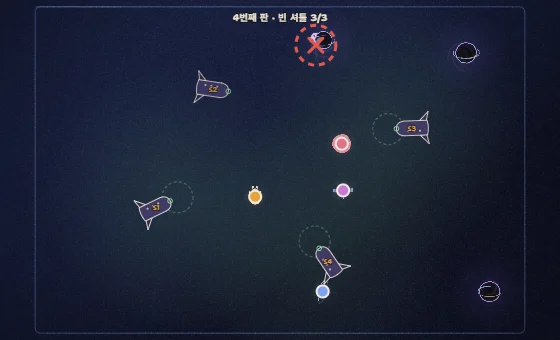
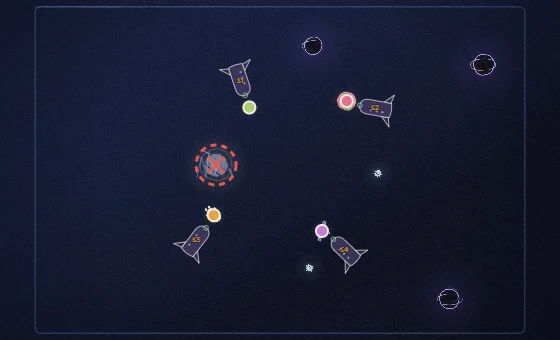
Docking Bay: pulsars and a comet
Two pulsars sit out of the starting circle and clear of the black holes;
every few seconds one pulses and shoves away whoever is floating near it,
off the approach to a port or toward a hole. Docked racers are held and
not shoved. A comet streaks across the room about three times a race,
barging through anyone in its way; it shares a negative collision group
with the walls so it can fly in from outside, while racers still bounce
off them. Each heat's shuttles are laid out clear of holes and pulsars.

Neither eliminates anyone directly, but more racers now end up in the
holes (about 45% of knockouts); 8 racers race in about 30-65 s, every
race still ending with one winner. Rules text and step pictures updated.

diff --git a/src/maps/dock.js b/src/maps/dock.js
@@ -23,7 +23,11 @@
 import { makeRng, hashSeed } from '../rng.js';
 import { staticRect, staticCircle, add, remove } from '../engine.js';
 import { drawEdge } from './common.js';
-import { createHole, updateHoles, holeCapturing, drawHoles } from './hazards.js';
+import {
+  createHole, updateHoles, holeCapturing, drawHoles,
+  createPulsar, updatePulsars, drawPulsars,
+  createComet, updateComets, drawComets,
+} from './hazards.js';
 import { BODY } from '../config.js';
 import { t } from '../i18n.js';
 
@@ -42,6 +46,7 @@ const VERDICT_MS = 1300;                 // the left-out racer is shown, then go
 const BREAK_MS = 1400;                   // between heats, before the next shuttles arrive
 const HOLE_WOBBLE = 110;                 // how far a black hole wanders from its corner
 const HOLE_CLEAR = 300;                  // shuttles keep at least this far from a hole
+const PULSAR_CLEAR = 250;                // and this far from a pulsar
 
 export default {
   id: 'dock',
@@ -51,9 +56,9 @@ export default {
   blurb: 'one shuttle short',
   rules: {
     out: 'Still floating when the last shuttle is taken, or falling into a black hole.',
-    watch: 'Every heat has one shuttle fewer than racers. Drift into a docking circle to get a seat, and keep clear of the black holes in the corners.',
+    watch: 'Every heat has one shuttle fewer than racers. Drift into a docking circle to get a seat. Pulsars shove you away, comets barge through, and black holes swallow you.',
   },
-  description: 'There is always one shuttle too few: drift into a docking circle to take a seat, mind the black holes, and whoever is left floating each heat is out.',
+  description: 'There is always one shuttle too few: drift into a docking circle to take a seat, dodge the pulsars, comets and black holes, and whoever is left floating each heat is out.',
 
   build({ sim, seed }) {
     const { Matter } = sim;
@@ -62,7 +67,10 @@ export default {
     const bounds = { x: -half.w, y: -half.h, w: W, h: H };
 
     // Bouncy walls: nothing here should ever come to rest against an edge.
-    const wallOpts = { restitution: 1.0, friction: 0 };
+    // Racers bounce off them; the comet, in the same negative collision
+    // group, flies straight through, so it can streak in from outside.
+    const PASS_WALLS = -71;
+    const wallOpts = { restitution: 1.0, friction: 0, collisionFilter: { group: PASS_WALLS, category: 1, mask: 0xFFFFFFFF } };
     add(sim,
       staticRect(sim, 0, -half.h - 40, W + 200, 80, wallOpts),
       staticRect(sim, 0, half.h + 40, W + 200, 80, wallOpts),
@@ -91,6 +99,29 @@ export default {
       return h;
     });
 
+    // Two pulsars, out of the starting circle and well clear of the holes.
+    // Every few seconds one pulses and shoves away whoever is floating near
+    // it: off the approach to a port, or toward a hole.
+    const pulsarSpots = [[-0.25, -0.62], [-0.25, 0.62], [0.4, 0.02], [0.12, -0.6], [0.12, 0.6], [-0.42, 0]]
+      .map(([fx, fy]) => ({ x: fx * half.w, y: fy * half.h }))
+      .filter((p) => holes.every((h) => Math.hypot(p.x - h.home.x, p.y - h.home.y) > 420));
+    for (let i = pulsarSpots.length - 1; i > 0; i--) {
+      const j = rng.int(0, i);
+      [pulsarSpots[i], pulsarSpots[j]] = [pulsarSpots[j], pulsarSpots[i]];
+    }
+    const pulsars = pulsarSpots.slice(0, 2).map((p, i) => createPulsar(sim, p.x, p.y, hashSeed('dockpul', seed, i)));
+
+    // A comet that now and then streaks across the room, barging through
+    // anyone in its way, then leaves and comes back later from elsewhere.
+    const comets = [createComet(sim, bounds, hashSeed('dockcom', seed))];
+    for (const c of comets) c.body.collisionFilter.group = PASS_WALLS;
+
+    // What each heat's shuttles must keep clear of, and by how much.
+    const keepOut = [
+      ...holes.map((h) => ({ x: h.home.x, y: h.home.y, clear: HOLE_CLEAR + HOLE_WOBBLE })),
+      ...pulsars.map((p) => ({ x: p.x, y: p.y, clear: PULSAR_CLEAR })),
+    ];
+
     let shuttles = [];   // { id, num, x, y, port, body, occupant, born, gone }
     let leaving = [];    // last heat's shuttles, fading out
     let heatNo = 0;
@@ -98,27 +129,28 @@ export default {
 
     // Lays out `count` shuttles round the room, spread evenly so no part of
     // it is favoured, each with its port facing somewhere between the middle
-    // and side-on, never into a wall, and clear of the black holes: it turns
-    // the whole ring until nothing sits within HOLE_CLEAR of a hole's home.
+    // and side-on, never into a wall, and clear of the black holes and
+    // pulsars: it turns the whole ring until nothing sits inside a keep-out
+    // zone (or, failing that, takes the turn that comes closest).
     function layout(count, time) {
       let best = null;
-      let bestGap = -1;
+      let bestGap = -Infinity;
       for (let attempt = 0; attempt < 24; attempt++) {
         const ring = ringOf(count, time);
         let gap = Infinity;
         for (const s of ring) {
           const q = portOf(s);
-          for (const h of holes) {
+          for (const k of keepOut) {
             gap = Math.min(gap,
-              Math.hypot(s.x - h.home.x, s.y - h.home.y),
-              Math.hypot(q.x - h.home.x, q.y - h.home.y));
+              Math.hypot(s.x - k.x, s.y - k.y) - k.clear,
+              Math.hypot(q.x - k.x, q.y - k.y) - k.clear);
           }
         }
         if (gap > bestGap) {
           best = ring;
           bestGap = gap;
         }
-        if (gap >= HOLE_CLEAR + HOLE_WOBBLE) break;
+        if (gap >= 0) break;
       }
       return best || [];
     }
@@ -359,7 +391,7 @@ export default {
       noBackstop: true,
 
       // For tests: the heat as it stands.
-      inspect: () => ({ heatNo, heat, shuttles }),
+      inspect: () => ({ heatNo, heat, shuttles, comets: comets.map((c) => ({ active: c.active, x: c.body.position.x, y: c.body.position.y })) }),
 
       spawn(n) {
         // Lined up in a ring in the middle, the first heat's shuttles already
@@ -388,6 +420,9 @@ export default {
         }
         heat.t += dt;
         moveHoles(dt, round);
+        // Pulsars shove only racers still floating; docked ones are held.
+        updatePulsars(sim, pulsars, dt, round.alivePlayers().filter((p) => !p.docked), round.particles);
+        updateComets(sim, comets, dt, round.particles);
         swallow(round);
         // A hole may just have taken the second-to-last racer.
         if (round.phase !== 'running') return;
@@ -458,6 +493,8 @@ export default {
 
       drawFront(g, cam, time) {
         drawHoles(g, holes, time);
+        drawPulsars(g, pulsars, time);
+        drawComets(g, comets, time);
         for (const s of leaving) {
           const k = 1 - Math.min(1, (time - s.gone) / 700);
           if (k > 0) drawShuttle(g, s, time, k, null);

diff --git a/src/i18n.js b/src/i18n.js
@@ -207,10 +207,10 @@ const KO = {
   'one shuttle short': '셔틀이 하나 모자라요',
   'Still floating when the last shuttle is taken, or falling into a black hole.':
     '마지막 셔틀까지 다 찼을 때 아직 떠다니거나, 블랙홀에 빠지면 탈락.',
-  'Every heat has one shuttle fewer than racers. Drift into a docking circle to get a seat, and keep clear of the black holes in the corners.':
-    '매 판마다 셔틀은 참가자보다 하나 적어요. 도킹 원 안으로 떠 들어가면 자리를 잡아요. 구석의 블랙홀은 조심하세요.',
-  'There is always one shuttle too few: drift into a docking circle to take a seat, mind the black holes, and whoever is left floating each heat is out.':
-    '셔틀은 늘 하나 모자라요. 도킹 원으로 떠 들어가면 자리를 잡고, 블랙홀을 조심하세요. 매 판 끝까지 떠다니는 한 명이 탈락해요.',
+  'Every heat has one shuttle fewer than racers. Drift into a docking circle to get a seat. Pulsars shove you away, comets barge through, and black holes swallow you.':
+    '매 판마다 셔틀은 참가자보다 하나 적어요. 도킹 원 안으로 떠 들어가면 자리를 잡아요. 펄서는 밀어내고, 혜성은 부딪쳐 오고, 블랙홀은 삼켜 버려요.',
+  'There is always one shuttle too few: drift into a docking circle to take a seat, dodge the pulsars, comets and black holes, and whoever is left floating each heat is out.':
+    '셔틀은 늘 하나 모자라요. 도킹 원으로 떠 들어가 자리를 잡고, 펄서와 혜성과 블랙홀을 피하세요. 매 판 끝까지 떠다니는 한 명이 탈락해요.',
   'No shuttle!': '셔틀 없음!',
   'Round {n} · {free} of {all} shuttles free': '{n}번째 판 · 빈 셔틀 {free}/{all}',
 
